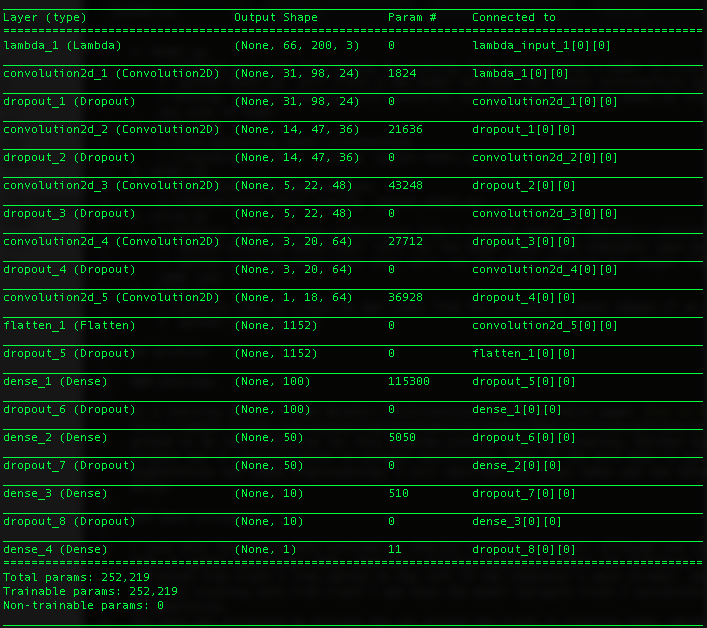
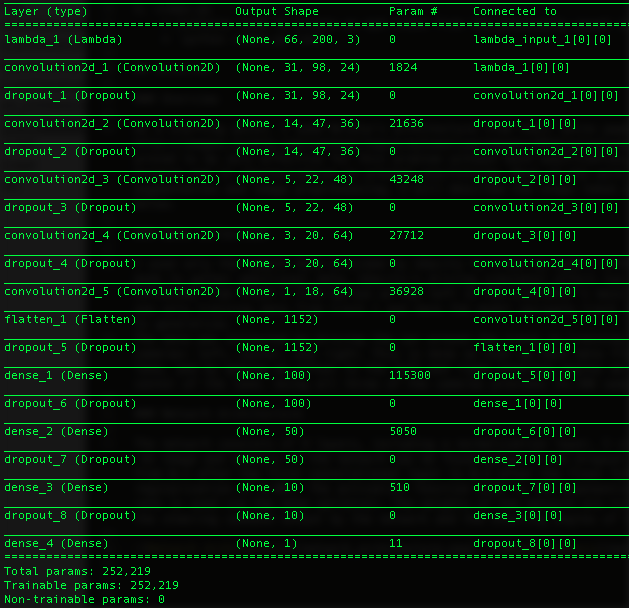
Adjust model summary image size

Changed region(s): [[0.0, 0.0, 0.9968, 1.0]]

diff --git a/README.md b/README.md
@@ -52,7 +52,7 @@ The data was collected by driving the car around the track in training mode, whi
 
 The network consists of 9 layers, including a normalization layer, 5 convolutional layers, and 3 fully connected layers. An image and summary of the network can be found below. I use dropout after each layer with drop probabilities ranging from 0.1 after the first convolutional layer to 0.5 after the final fully-connected layer. In addition, I use l2 weight regularization of 0.001. The activation function used is the exponential linear unit (ELU), and an adaptive learning rate is used via the Adam optimizer. The weights of the network are trained to minimize the mean squared error between the steering command output by the network and the steering angles of the images from the sample dataset.
 
-![Network Architecture](network_architecture.png)  ![Model Summary](model_summary4.png)
+![Network Architecture](network_architecture.png)  ![Model Summary](model_summary2.png)
 
 
 
